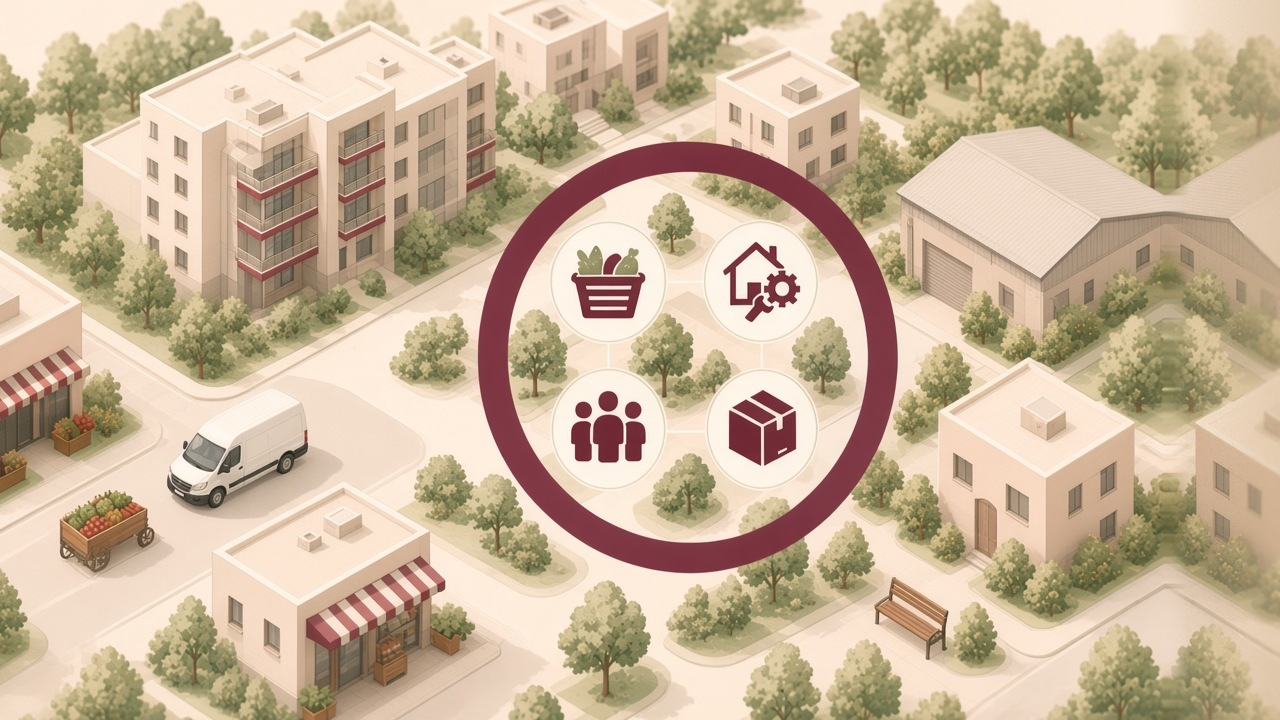
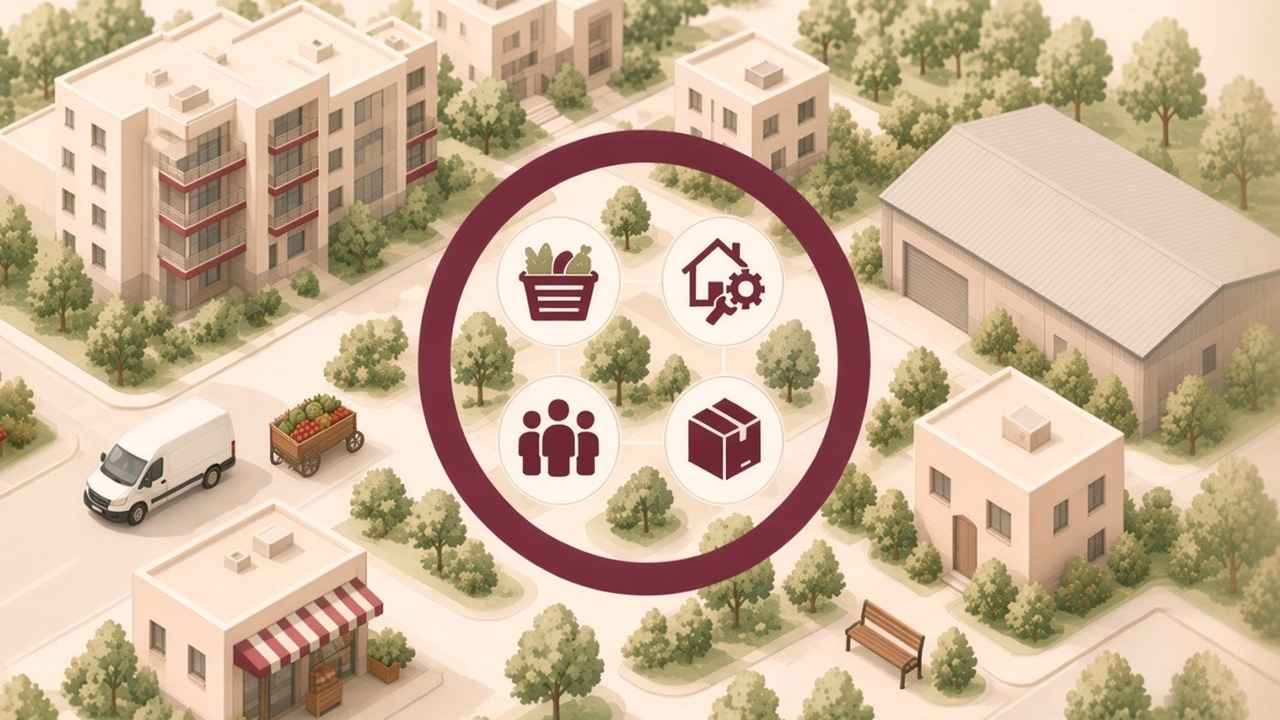
bring in geo stack

diff --git a/services/controlplane-ui/public/sw.js b/services/controlplane-ui/public/sw.js
@@ -1,4 +1,4 @@
-const CACHE_NAME = "zonity-shell-v18";
+const CACHE_NAME = "zonity-shell-v19";
 const SHELL_URLS = [
   "/",
   "/app",

diff --git a/services/controlplane/internal/roles/catalog.go b/services/controlplane/internal/roles/catalog.go
@@ -104,6 +104,9 @@ const (
 	PermApplicationsManage       = "applications.manage"
 	PermOrdersRead               = "orders.read"
 	PermOrdersWrite              = "orders.write"
+
+	PermGeoRead  = "geo.read"
+	PermGeoWrite = "geo.write"
 )
 
 // AllPermissions is the complete published v1 permission catalog.
@@ -176,6 +179,8 @@ var AllPermissions = []storage.Permission{
 	{Name: PermNotificationsAcknowledge, Description: "Acknowledge system notifications"},
 	{Name: PermOrdersRead, Description: "Read ordering offerings and submitted orders"},
 	{Name: PermOrdersWrite, Description: "Submit orders"},
+	{Name: PermGeoRead, Description: "Read Geo-Zone boundaries and spatial query results"},
+	{Name: PermGeoWrite, Description: "Create, update, and export Geo-Zone boundaries"},
 }
 
 func allPermissionNames() []string {
@@ -214,6 +219,7 @@ var BuiltInRoles = []BuiltInRole{
 			PermFocusContentManage,
 			PermMCPInvoke,
 			PermOrdersRead, PermOrdersWrite,
+			PermGeoRead, PermGeoWrite,
 		},
 	},
 	{
@@ -229,6 +235,7 @@ var BuiltInRoles = []BuiltInRole{
 			PermNotificationsRead,
 			PermLicensingRead,
 			PermOrdersRead,
+			PermGeoRead,
 		},
 	},
 	{
@@ -247,6 +254,7 @@ var BuiltInRoles = []BuiltInRole{
 			PermInferenceUse, PermInferenceModelsRead,
 			PermVideoLibraryRead, PermVideoLibraryWrite, PermVideoPlay,
 			PermOrdersRead, PermOrdersWrite,
+			PermGeoRead, PermGeoWrite,
 		},
 	},
 }

diff --git a/services/controlplane/internal/appliance/appliance.go b/services/controlplane/internal/appliance/appliance.go
@@ -42,6 +42,10 @@ const (
 	CapabilityFocusContent        Capability = "focus-content"
 	CapabilityApplications        Capability = "applications"
 	CapabilityPlaintextHTTP       Capability = "plaintext-http"
+	CapabilityGeoSpatialStore     Capability = "geo-spatial-store"
+	CapabilityGeoDataAPI          Capability = "geo-data-api"
+	CapabilityGeoBasemap          Capability = "geo-basemap"
+	CapabilityGeoZoneEditor       Capability = "geo-zone-editor"
 )
 
 type CapabilityCatalog map[Capability]capabilityDefinition

diff --git a/services/controlplane/internal/appliance/modules.go b/services/controlplane/internal/appliance/modules.go
@@ -20,6 +20,8 @@ const (
 	ModuleNameArtifactRegistry = "artifact-registry"
 	ModuleNameLANDNS           = "lan-dns"
 	ModuleNameInferenceRuntime = "inference-runtime"
+	ModuleNameGeoDataAPI       = "geo-data-api"
+	ModuleNameGeoZoneEditor    = "geo-zone-editor"
 )
 
 type ExecutionMode string

diff --git a/docs/geo-zone-appliance-plan.md b/docs/geo-zone-appliance-plan.md
@@ -1,0 +1,27 @@
+# Geo-Zone appliance integration
+
+This change establishes the appliance contract for the Geo-Zone product from
+`zone-studio` without importing its standalone installer or its private
+SuperTokens deployment. Geo-Zone is represented by one delivery pack and
+granular capabilities:
+
+- `geo-spatial-store` — PostGIS-backed boundary persistence and migrations.
+- `geo-data-api` — authenticated spatial queries and GeoJSON export.
+- `geo-basemap` — appliance-owned, offline map tiles/styles and attribution.
+- `geo-zone-editor` — the MapLibre/Terra Draw editor and its static assets.
+
+The `geo-zone` profile selects all four capabilities plus the shared `base` and
+`application-auth` capabilities. `geo-stack` is the sole delivery pack for the
+Geo-Zone-specific artifacts; it is intentionally not split into one pack per
+service.
+
+The first implementation slice is metadata and routing only. Runtime images,
+the PostGIS chart/migrations, the data API, and the offline basemap must be
+added as signed release-input artifacts before `geo-zone` is offered for a
+production install. This keeps the profile fail-closed instead of shipping an
+apparently enabled profile with an online basemap or an unverified image.
+
+The standalone Zone Studio catalog remains useful as the source inventory, but
+its `ingress`, `auth-service`, and `backups` components map to appliance-owned
+concerns: Traefik, the common foundation Auth Service, and the appliance
+recovery-set/backup contract. They are not duplicated as Geo-specific packs.

diff --git a/services/controlplane-ui/DESIGN.md b/services/controlplane-ui/DESIGN.md
@@ -100,6 +100,5 @@
 - 2026-11-27: Restored the full uncropped v3f1 neighborhood artwork, and on
   mobile give the artwork half the viewport with object-fit contain so the
   image is not cropped top or bottom.
-- 2026-11-27: Recentering the service ring must not scale after a horizontal
-  crop (that enlarges ring height vs the frame). Prefer left-trim plus
-  same-height right extension so ring diameter / image height stays unchanged.
+- 2026-11-27: Set the live login neighborhood art to the A2 phone-style 16:9
+  crop centered on the service ring; removed draft option/preview assets.
